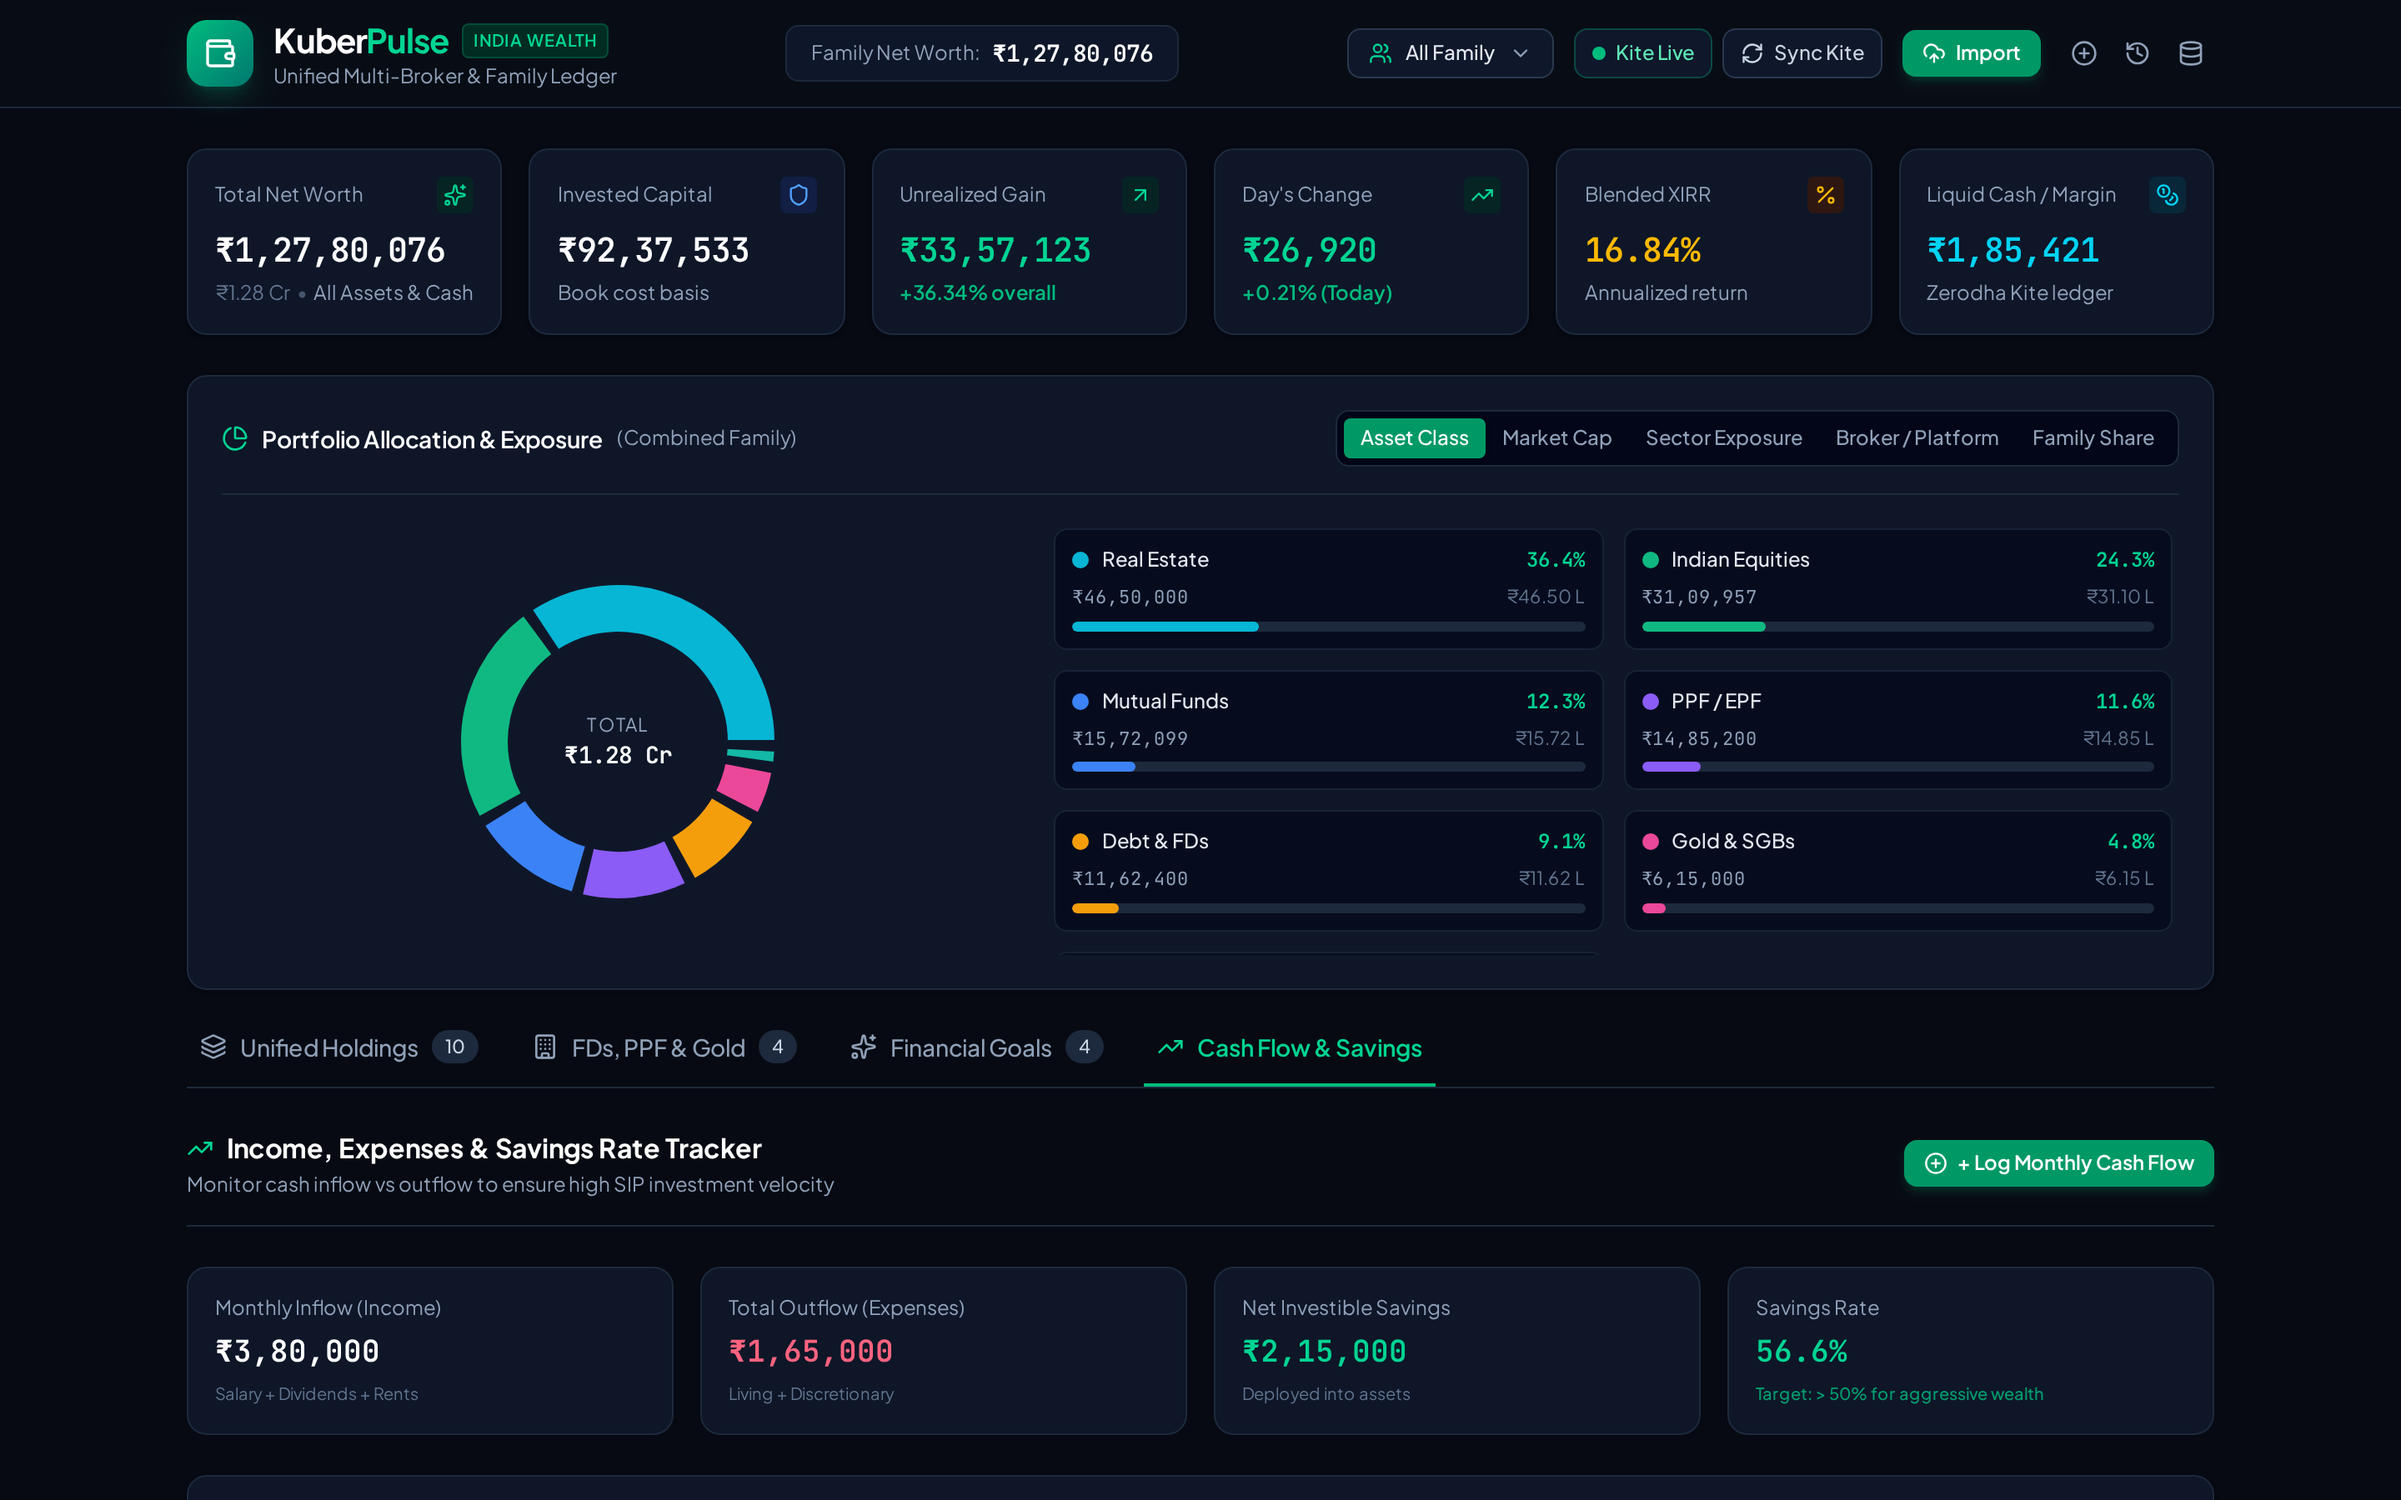
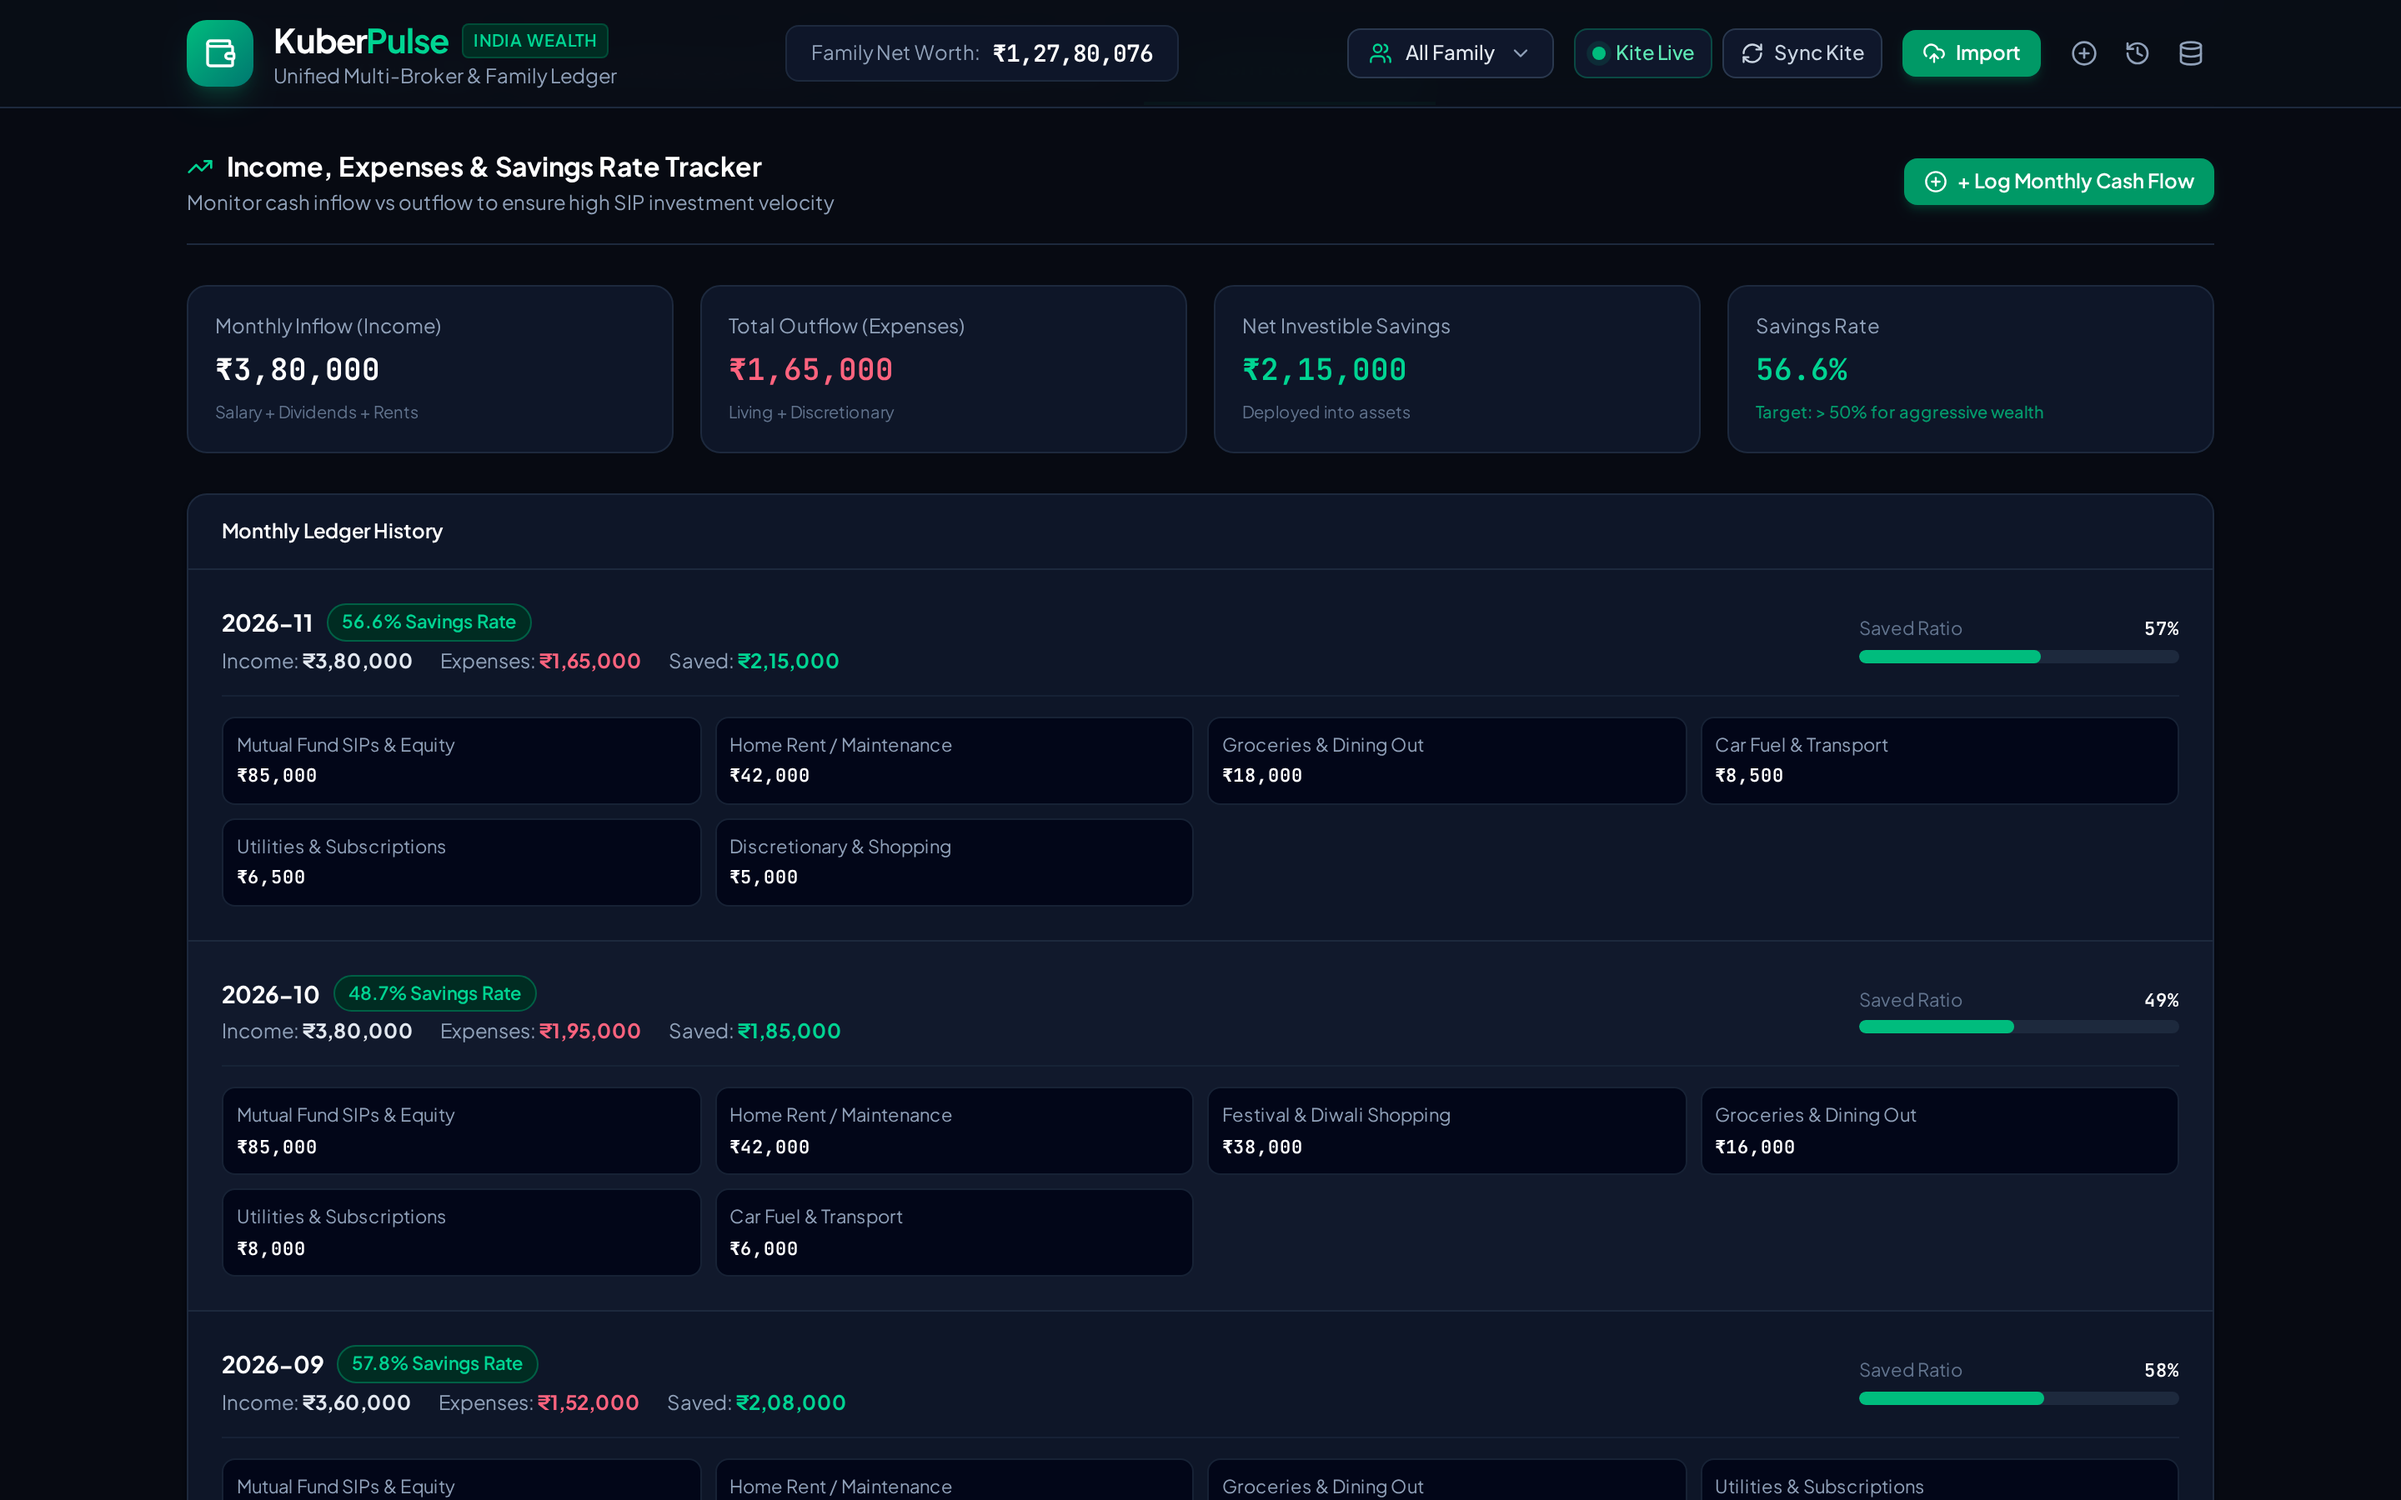
docs: update features and screenshots in README
Add support for non-broker assets and import audit logs with rollback capabilities to the feature documentation.

diff --git a/README.md b/README.md
@@ -16,25 +16,45 @@ Searchable and sortable holdings table that automatically merges duplicate secur
 
 ![Multi-Broker Holdings Breakdown](./docs/screenshots/holdings-multi-broker.png)
 
-### 3. Smart Import Engine (CSV / Excel / CAMS CAS)
-Drag-and-drop import wizard supporting **Zerodha Console**, **Groww**, **Upstox**, and **CAMS / KFintech CAS** exports with instant file previews, family member PAN assignment, downloadable test samples, and 1-click batch rollbacks.
+### 3. Non-Broker Assets (FDs, PPF, Gold & Real Estate)
+Dedicated ledger for fixed deposits, Public Provident Fund (PPF), RBI Sovereign Gold Bonds (SGBs), and real estate with institution metadata, annual interest rates, and cost vs. current valuation.
+
+![Non-Broker Assets Ledger](./docs/screenshots/manual-assets.png)
+
+### 4. Smart Import Engine (CSV / Excel / CAMS CAS)
+Drag-and-drop import wizard supporting **Zerodha Console**, **Groww**, **Upstox**, and **CAMS / KFintech CAS** exports with instant file previews, family member PAN assignment, and downloadable test samples.
 
 ![Smart Import Wizard](./docs/screenshots/smart-import-wizard.png)
 
-### 4. Zerodha Kite Connect v3 Integration
+### 5. Import Audit Logs & 1-Click Batch Rollback
+Track every uploaded spreadsheet batch with owner tagging, record counts, and instant 1-click **Undo / Rollback** to safely revert faulty imports without corrupting the historical ledger.
+
+![Import Audit and Rollback Logs](./docs/screenshots/import-history-rollback.png)
+
+### 6. Zerodha Kite Connect v3 Integration
 Manage Kite Connect API credentials, inspect available cash and utilised SPAN margins, handle daily 06:00 AM IST token expirations gracefully, and trigger live portfolio syncs.
 
 ![Zerodha Kite Connect Modal](./docs/screenshots/kite-connect-modal.png)
 
-### 5. Goal-Based Wealth Planning
+### 7. Goal-Based Wealth Planning
 Track long-term milestones such as Financial Independence (FIRE), Home Down Payment, Children's Education, and Emergency Runway with corpus progress bars, shortfall calculations, and recommended monthly SIPs.
 
 ![Goal Planner](./docs/screenshots/goal-planner.png)
 
-### 6. Cash Flow & Savings Rate Tracker
+### 8. Cash Flow & Savings Rate Tracker
 Log monthly inflows and categorized outflows (Mutual Fund SIPs, Rent/EMI, Groceries, Utilities) to track net investible surplus and savings velocity.
 
 ![Cash Flow Tracker](./docs/screenshots/cashflow-tracker.png)
+
+### 9. Multi-PAN Family Sub-Profiles
+Add family members (`Self`, `Spouse`, `Parent`, `Child`, `HUF`) with distinct PAN tax identities and color-coded avatars to filter or consolidate household wealth.
+
+![Add Family Member Modal](./docs/screenshots/family-member-modal.png)
+
+### 10. PostgreSQL Prisma Schema & Architecture Viewer
+Inspect and copy the relational `prisma/schema.prisma` blueprint and ledger deduplication specifications directly inside the app.
+
+![Prisma Schema and Architecture Modal](./docs/screenshots/schema-architecture-modal.png)
 
 ---
 
